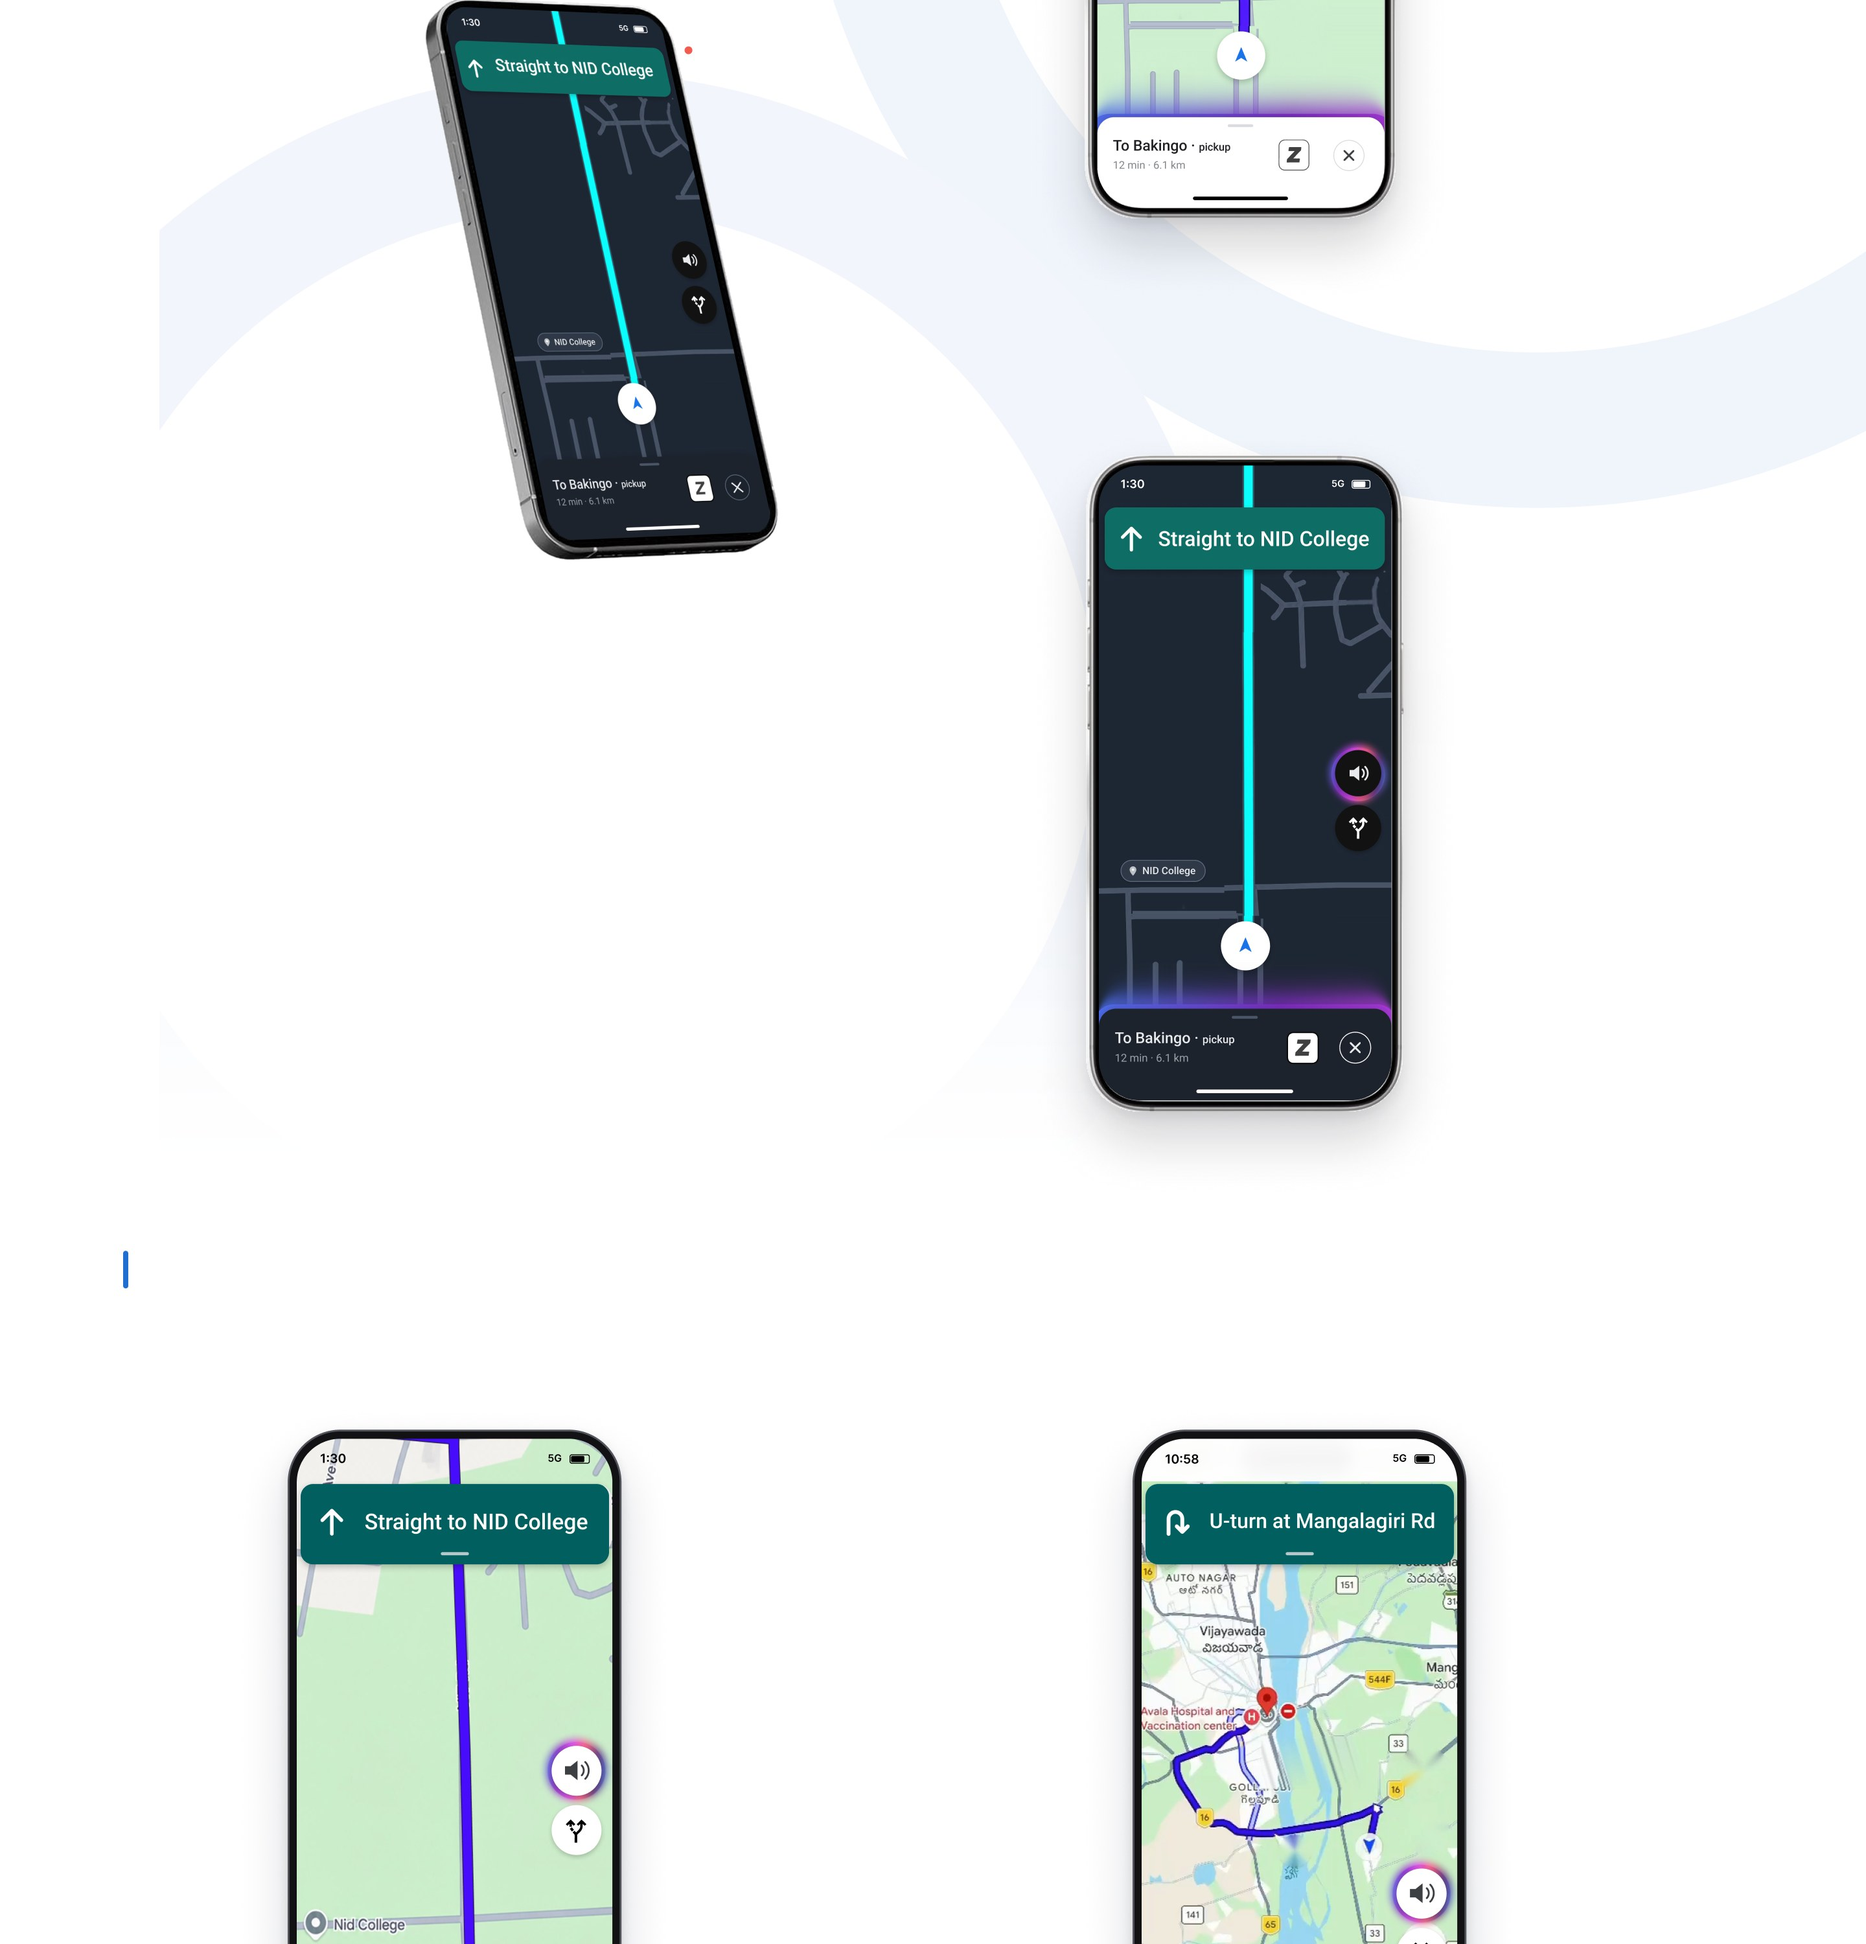
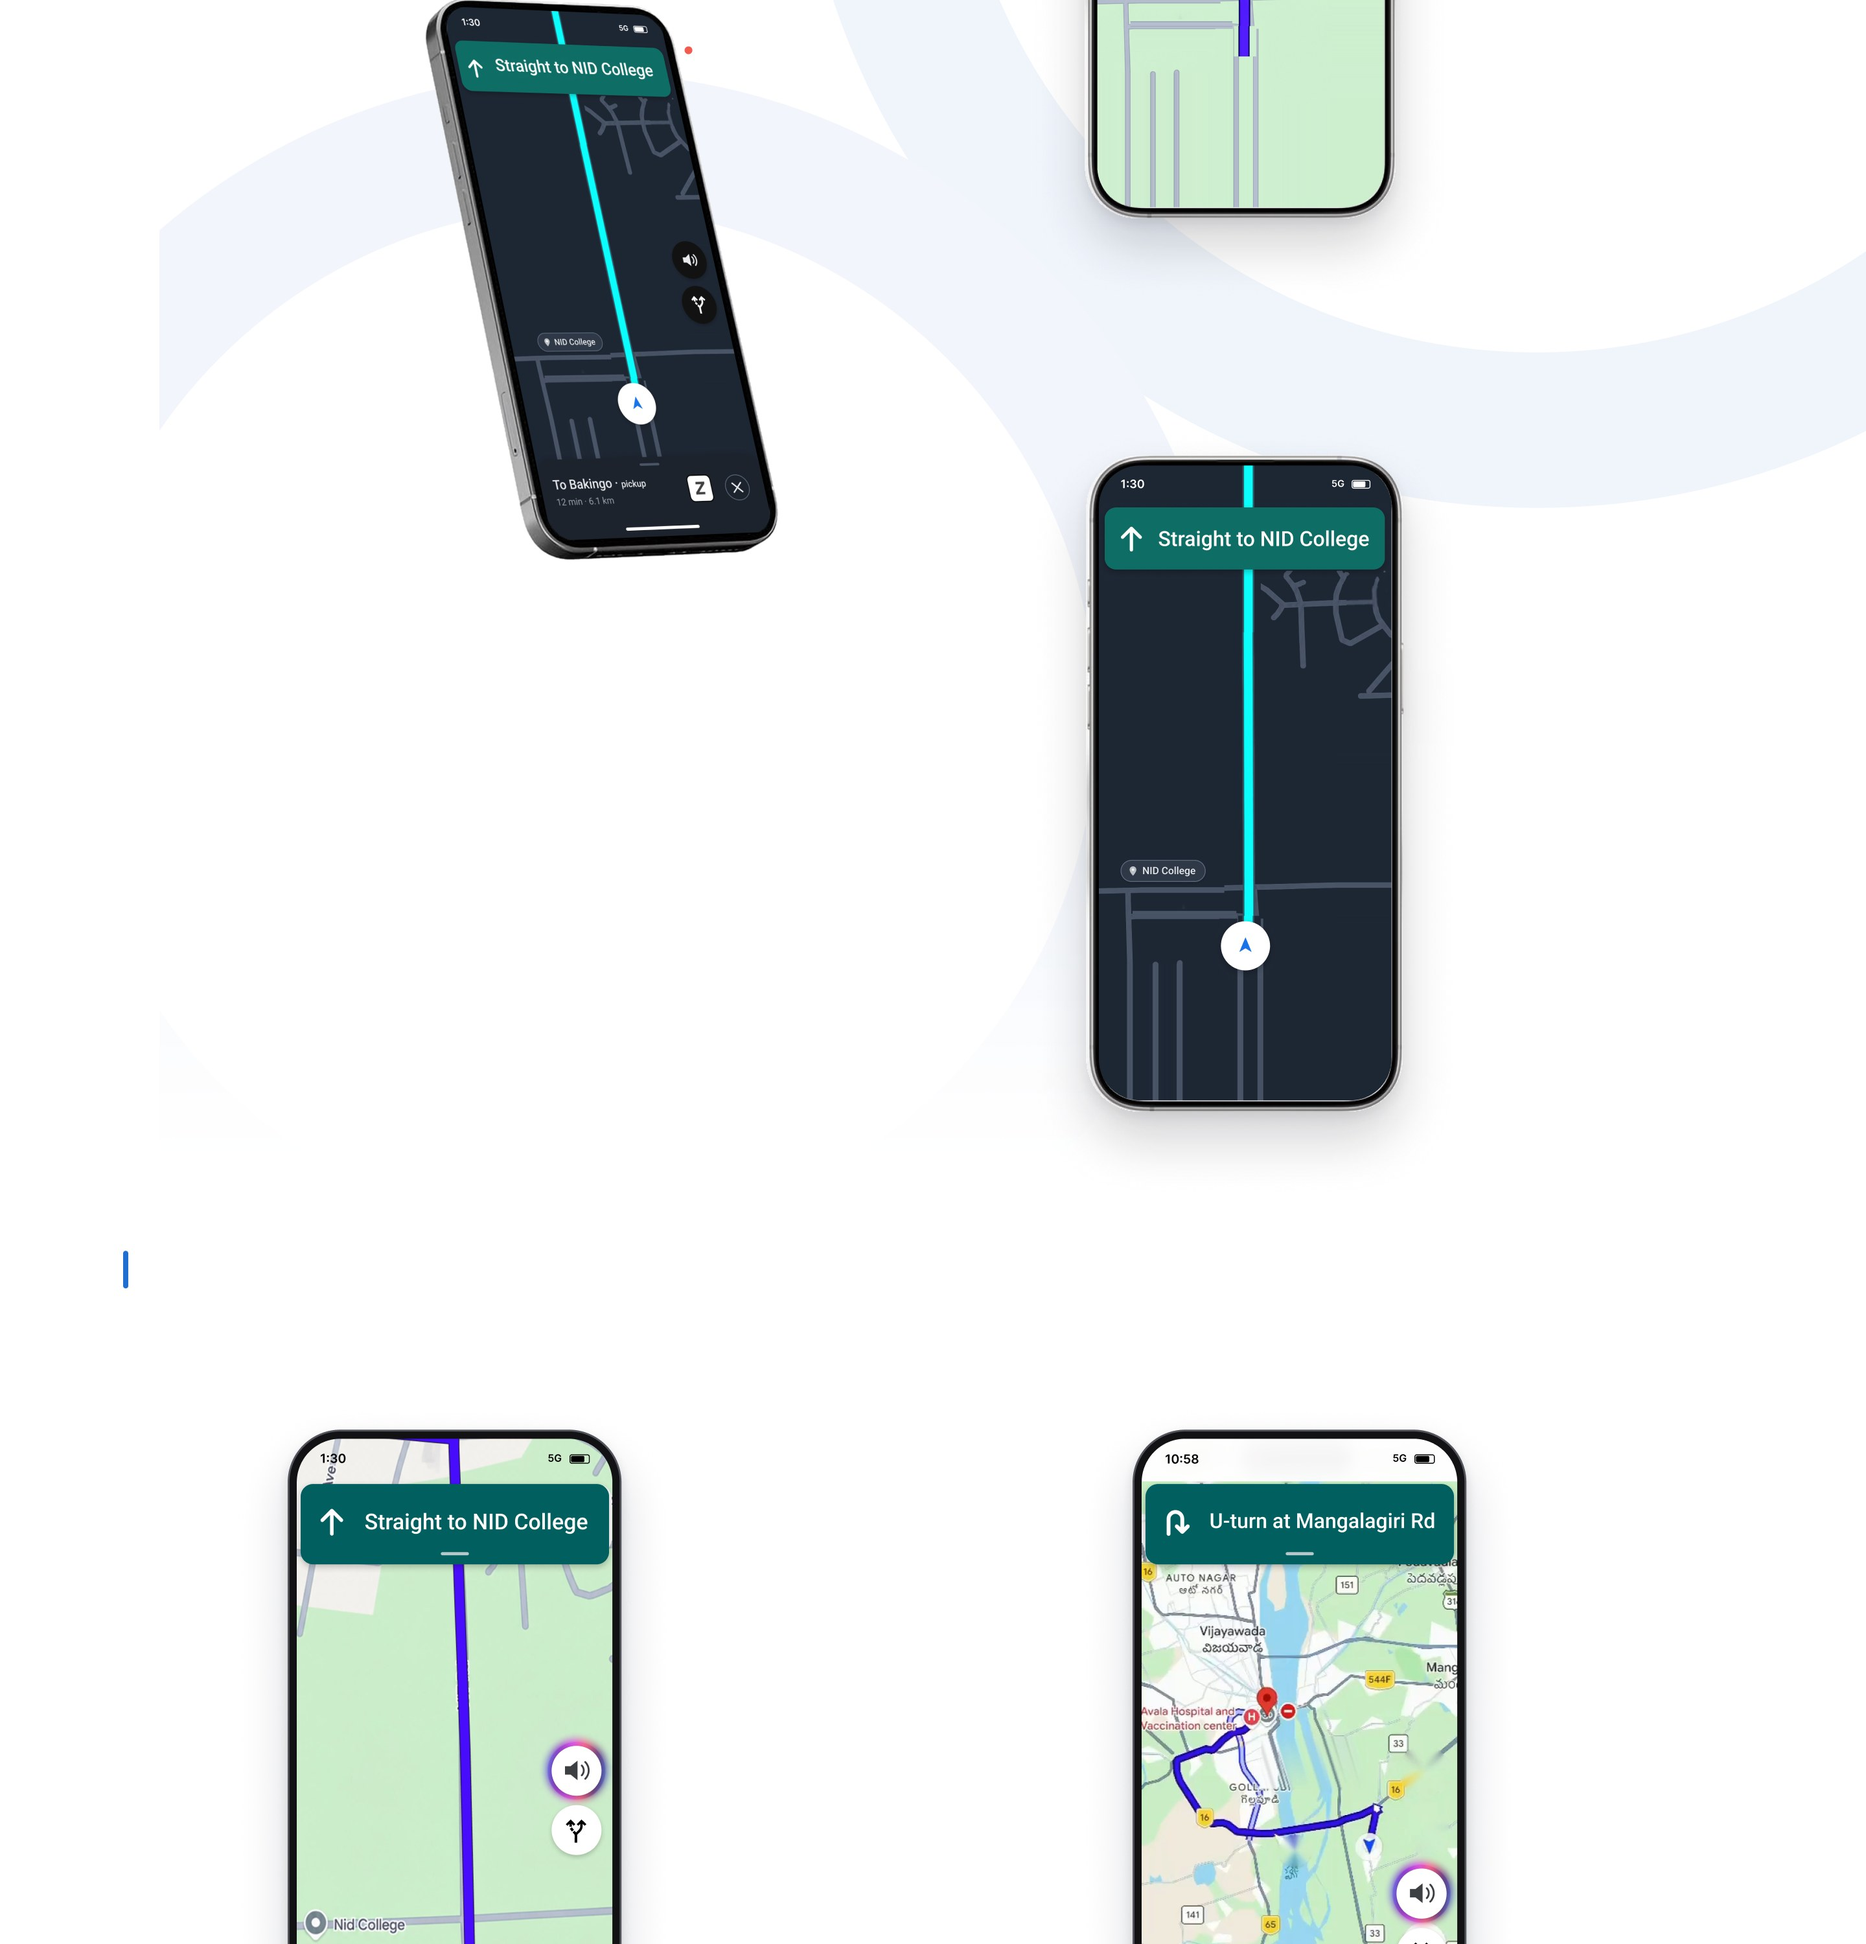
KAI: animate the purple listening cue
Port of the Figma cue component (aura + prism line, 4s flow, 3s breathe)
as CSS on the two Final UI listening phones and the two zoom phones.
The cue sits between the map and the layers above it, as in Figma:
tile 6 and the phone overlays are re-rendered without the static cue.

Changed region(s): [[0.5625, 0.0, 0.75, 0.124], [0.5938, 0.496, 0.75, 0.589], [0.6875, 0.372, 0.75, 0.434]]

diff --git a/kai.html b/kai.html
@@ -73,6 +73,16 @@ video{position:absolute;display:block;object-fit:cover;background:#fff}
 .k47{font-size:22px;color:#1a1a1a;font-weight:600;line-height:1.4;}
 .k48{font-size:25px;color:#000000;}
 .k49{font-size:70px;color:#000000;font-weight:500;}
+/* KAI listening cue: port of the Figma component 257:431 (aura + prism line, 4s flow, 3s breathe) */
+.cue{position:absolute;pointer-events:none}
+.cue i{position:absolute;display:block;left:-1.728%;width:103.704%}
+.cue .aura{top:51.56%;height:41.48%;opacity:.8;filter:blur(var(--b1));animation:kai-breathe 1.5s ease-in-out infinite alternate}
+.cue .aura b{position:absolute;inset:0;-webkit-mask-image:linear-gradient(180deg,transparent 0%,rgba(0,0,0,.25) 20%,rgba(0,0,0,.85) 42%,#000 57%);mask-image:linear-gradient(180deg,transparent 0%,rgba(0,0,0,.25) 20%,rgba(0,0,0,.85) 42%,#000 57%)}
+.cue .aura b,.cue .prism{background:linear-gradient(90deg,#3b82f6 0%,#7b2cbf 20%,#d946ef 40%,#ff5e7e 60%,#432c81 80%,#3b82f6 100%);background-size:350% 100%;animation:kai-flow 4s ease infinite}
+.cue .prism{top:71.99%;height:28.52%}
+@keyframes kai-flow{0%,100%{background-position:0% 50%}50%{background-position:100% 50%}}
+@keyframes kai-breathe{from{opacity:.8;filter:blur(var(--b1));transform:scale(1)}to{opacity:1;filter:blur(var(--b2));transform:scale(1.03)}}
+@media (prefers-reduced-motion:reduce){.cue .aura,.cue .aura b,.cue .prism{animation:none}}
 </style>
 
 <div class="cv" id="cv">
@@ -83,14 +93,18 @@ video{position:absolute;display:block;object-fit:cover;background:#fff}
 <img class="tile" src="images/kai-figma/t3.jpg?v=1029" style="top:4500px;height:1500px" alt="" loading="lazy">
 <img class="tile" src="images/kai-figma/t4.jpg?v=1029" style="top:6000px;height:1500px" alt="" loading="lazy">
 <img class="tile" src="images/kai-figma/t5.jpg?v=1029" style="top:7500px;height:1500px" alt="" loading="lazy">
-<img class="tile" src="images/kai-figma/t6.jpg?v=1029" style="top:9000px;height:1500px" alt="" loading="lazy">
+<img class="tile" src="images/kai-figma/t6.jpg?v=1029b" style="top:9000px;height:1500px" alt="" loading="lazy">
 <img class="tile" src="images/kai-figma/t7.jpg?v=1029" style="top:10500px;height:1399px" alt="" loading="lazy">
 <video src="images/kai-figma/kai-speaks.mp4" muted loop playsinline autoplay preload="metadata" style="left:261px;top:6551px;width:918px;height:516px;border-radius:14px;box-shadow:3px 4px 30.4px -11px rgba(0,0,0,0.25)" aria-label="KAI speaking and listening"></video>
-<div class="scr" style="left:229px;top:10110.2px;width:243.6px;height:530px;border-radius:33.7px"><video src="images/kai-figma/autozoom.mp4" muted loop playsinline autoplay preload="metadata"></video></div>
-<img class="ov" src="images/kai-figma/ui-az.png?v=1029" style="left:229px;top:10110.2px;width:243.6px;height:530px" alt="KAI map, zooming out on a long stretch during the ride">
-<div class="scr" style="left:881px;top:10110.2px;width:243.6px;height:530px;border-radius:33.7px"><video src="images/kai-figma/route-preview.mp4" muted loop playsinline autoplay preload="metadata"></video></div>
-<img class="ov" src="images/kai-figma/ui-pv.png?v=1029" style="left:881px;top:10110.2px;width:243.6px;height:530px" alt="KAI map, route overview before the ride">
+<div class="scr" style="left:229px;top:10110.2px;width:243.6px;height:530px;border-radius:33.7px"><video src="images/kai-figma/autozoom.mp4" muted loop playsinline autoplay preload="metadata"></video><div class="cue" style="left:-3.86px;top:360.1px;width:251.3px;height:124.1px;--b1:9.31px;--b2:12.41px"><i class="aura"><b></b></i><i class="prism"></i></div></div>
+<img class="ov" src="images/kai-figma/ui-az.png?v=1029b" style="left:229px;top:10110.2px;width:243.6px;height:530px" alt="KAI map, zooming out on a long stretch during the ride">
+<div class="scr" style="left:881px;top:10110.2px;width:243.6px;height:530px;border-radius:33.7px"><video src="images/kai-figma/route-preview.mp4" muted loop playsinline autoplay preload="metadata"></video><div class="cue" style="left:-3.86px;top:360.1px;width:252.46px;height:124.67px;--b1:9.35px;--b2:12.47px"><i class="aura"><b></b></i><i class="prism"></i></div></div>
+<img class="ov" src="images/kai-figma/ui-pv.png?v=1029b" style="left:881px;top:10110.2px;width:243.6px;height:530px" alt="KAI map, route overview before the ride">
 <video src="images/kai-figma/rider-film.mp4" muted loop playsinline autoplay preload="metadata" style="left:95px;top:10891px;width:1212px;height:611px" aria-label="Rider using KAI"></video>
+<div class="scr" style="left:846.8px;top:8679px;width:221.6px;height:480.8px;border-radius:31.04px"><div class="cue" style="left:-3.54px;top:327.62px;width:228.59px;height:112.88px;--b1:8.47px;--b2:11.29px"><i class="aura"><b></b></i><i class="prism"></i></div></div>
+<img class="ov" src="images/kai-figma/ui-day.png?v=1029b" style="left:846.8px;top:8679px;width:221.6px;height:480.8px" alt="KAI listening, day">
+<div class="scr" style="left:848px;top:9359.2px;width:225.7px;height:489.9px;border-radius:31.62px"><div class="cue" style="left:0.02px;top:335.49px;width:225.7px;height:111.46px;--b1:8.36px;--b2:11.15px"><i class="aura"><b></b></i><i class="prism"></i></div></div>
+<img class="ov" src="images/kai-figma/ui-night.png?v=1029b" style="left:848px;top:9359.2px;width:225.7px;height:489.9px" alt="KAI listening, night">
 <p class="t nw" style="left:770px;top:112px;width:112px;"><span class="k49">KAI</span></p>
 <p class="t" style="left:770px;top:194px;width:432px;"><span class="k48">Voice-supported navigation for delivery riders</span></p>
 <p class="t" style="left:95px;top:752px;width:227px;"><span class="k28">Role</span></p>
